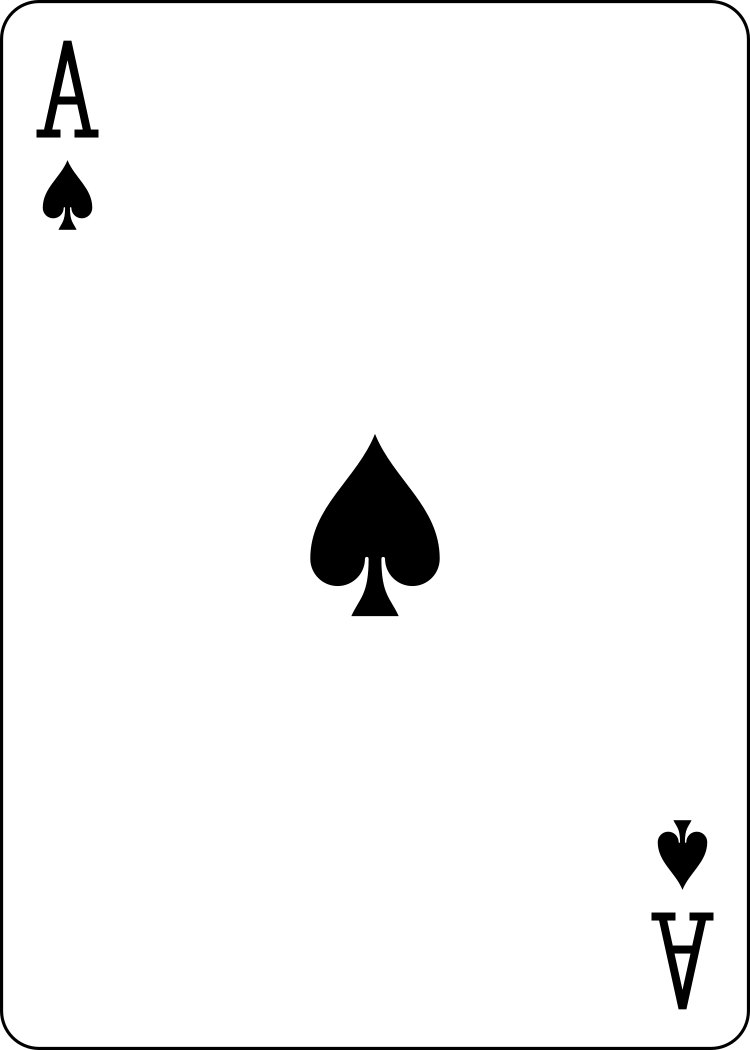
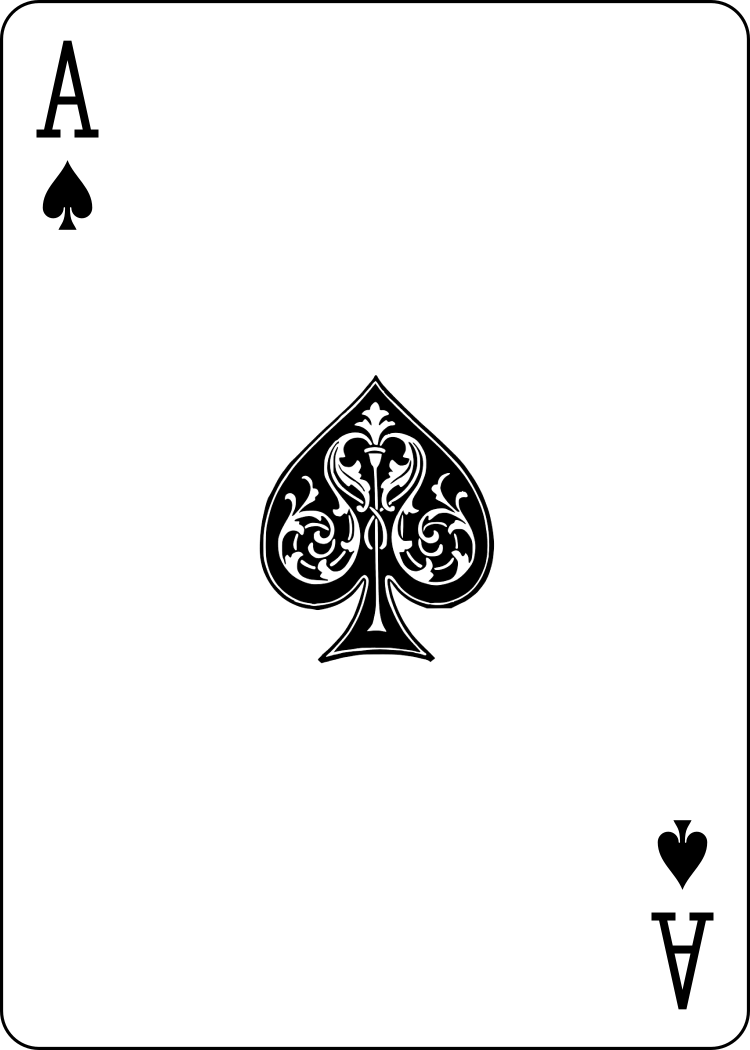
스페이드 에이스 디자인 변경

Changed region(s): [[0.3373, 0.3657, 0.6747, 0.64]]

diff --git a/lib/game/game_play.dart b/lib/game/game_play.dart
@@ -11,14 +11,15 @@ class GamePlay extends StatefulWidget {
 
 class _GamePlayState extends State<GamePlay> with SingleTickerProviderStateMixin{
   double cardLeft = 0.0;
+  int attacks = 0;
 
   List<String> num = ["turn"];
 
-  List<String> myHand =  ["4H", "9S", "JKR", "8D", "6H", "TC", "JS", "KS", "6S"];
+  List<String> myHand =  ["4H", "9S", "XR", "8D", "6H", "TC", "JS", "KS", "6S"];
   List<String> firstHand = ["8H", "7S", "JD", "8C", "AD", "3D", "KD"];
   List<String> secondHand =  ["2D", "3C", "9D", "QH", "3S", "3H", "JC"];
   List<String> thirdHand =  ["2S", "5H", "5C", "KH", "5D", "9C", "TD"];
-  List<String> deck = ["2C", "8S", "5S", "6D", "QS", "TH", "6C", "9H", "KC", "7C", "7H", "JKB","JH", "4D", "QC", "TS", "4C", "AS", "2H", "QD", "AC", "AH", "7D"];
+  List<String> deck = ["2C", "8S", "5S", "6D", "QS", "TH", "6C", "9H", "KC", "7C", "7H", "XB","JH", "4D", "QC", "TS", "4C", "AS", "2H", "QD", "AC", "AH", "7D"];
   List<String> pile = ["4S"];
 
   late OverlayEntry _overlayEntry;
@@ -215,7 +216,20 @@ class _GamePlayState extends State<GamePlay> with SingleTickerProviderStateMixin
                                 )),
                             Expanded(
                                 flex: 3,
-                                child: Container(color: Colors.orange[100],)),
+                                child: Container(
+                                  color: Colors.orange[100],
+                                  child: Row(
+                                    children: [
+                                      Container(
+                                        width: 35,
+                                        height: 35,
+                                        child: Image.asset("assets/images/icon_sword.png"),
+                                      ),
+                                      Text(attacks.toString()),
+                                    ],
+                                  ),
+                                
+                                )),
                           ],
                         )),
                     Expanded(
@@ -396,57 +410,6 @@ class _GamePlayState extends State<GamePlay> with SingleTickerProviderStateMixin
           ],
         ),
       ),
-    );
-  }
-
-}
-
-class BuildDragTarget extends StatefulWidget {
-  final List pile;
-  List num;
-
-  BuildDragTarget({Key? key, required this.pile, required this.num}) : super(key: key);
-
-  @override
-  _BuildDragTargetState createState() => _BuildDragTargetState();
-}
-
-class _BuildDragTargetState extends State<BuildDragTarget> {
-  @override
-  Widget build(BuildContext context) {
-    return DragTarget<String>(
-      onWillAccept: (data) {
-        if (widget.num.length == 1) {
-          return (widget.pile.last[0] == data?[0] || widget.pile.last[1] == data?[1]);
-        }
-        else if (widget.num.length == 0) {
-          return widget.pile.last[0] == data?[0];
-        }
-        else {
-          return false;
-        }
-      },
-      onAccept: (data) {
-        if (data?[0]=="K") widget.num.add("turn");
-        widget.pile.add(data);
-        if (widget.num.isNotEmpty) widget.num.removeLast();
-        print(widget.pile);
-        print(widget.num);
-        print('Card $data dropped!');
-      },
-      builder: (BuildContext context, List<String?> candidateData, List<dynamic> rejectedData) {
-        return  Stack( //Pile
-          alignment: Alignment.center,
-          children: List.generate(widget.pile.length, (index) {
-            final double shift = index * 0.8;
-            return Positioned(
-                bottom: shift,
-                child: CardWidget(
-                  cardName: widget.pile.last,
-                ));
-          }),
-        );
-      },
     );
   }
 }

diff --git a/lib/game/cards.dart b/lib/game/cards.dart
@@ -80,4 +80,54 @@ class CardWidget extends StatelessWidget {
   }
 }
 
+class BuildDragTarget extends StatefulWidget {
+  final List pile;
+  List num;
+
+  BuildDragTarget({Key? key, required this.pile, required this.num}) : super(key: key);
+
+  @override
+  _BuildDragTargetState createState() => _BuildDragTargetState();
+}
+
+class _BuildDragTargetState extends State<BuildDragTarget> {
+  @override
+  Widget build(BuildContext context) {
+    return DragTarget<String>(
+      onWillAccept: (data) {
+        if (widget.num.length == 1) {
+          return (widget.pile.last[0] == data?[0] || widget.pile.last[1] == data?[1]);
+        }
+        else if (widget.num.length == 0) {
+          return widget.pile.last[0] == data?[0];
+        }
+        else {
+          return false;
+        }
+      },
+      onAccept: (data) {
+        if (data?[0]=="K") widget.num.add("turn");
+        widget.pile.add(data);
+        if (widget.num.isNotEmpty) widget.num.removeLast();
+        print(widget.pile);
+        print(widget.num);
+        print('Card $data dropped!');
+      },
+      builder: (BuildContext context, List<String?> candidateData, List<dynamic> rejectedData) {
+        return  Stack( //Pile
+          alignment: Alignment.center,
+          children: List.generate(widget.pile.length, (index) {
+            final double shift = index * 0.8;
+            return Positioned(
+                bottom: shift,
+                child: CardWidget(
+                  cardName: widget.pile.last,
+                ));
+          }),
+        );
+      },
+    );
+  }
+}
+
 

diff --git a/lib/pages/ranking_page.dart b/lib/pages/ranking_page.dart
@@ -12,7 +12,7 @@ class RankingPageStaet  extends State<RankingPage>{
   Widget build(BuildContext context
       ) {
     return Scaffold(
-      backgroundColor: Colors.cyan,
+      backgroundColor: Color(0xff121212),
     );
   }
 
